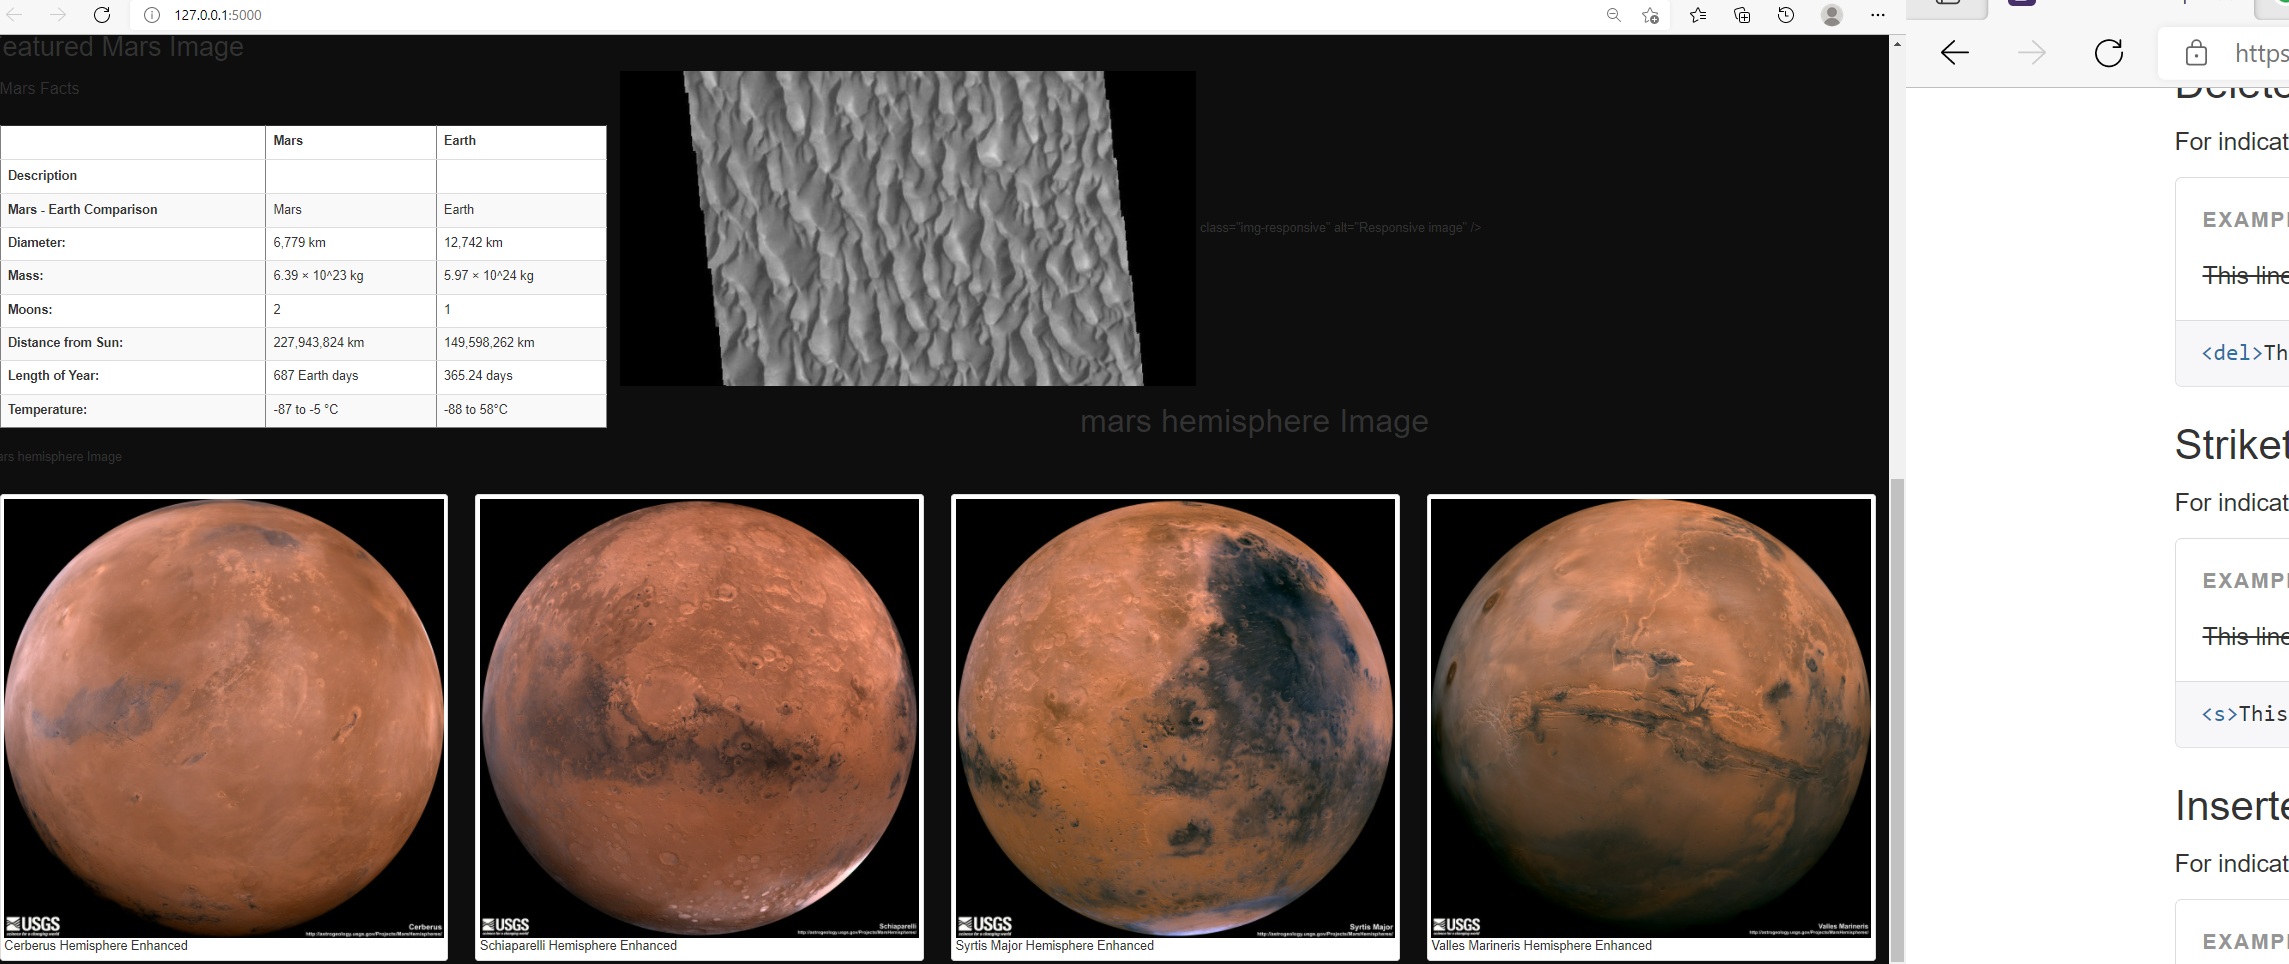
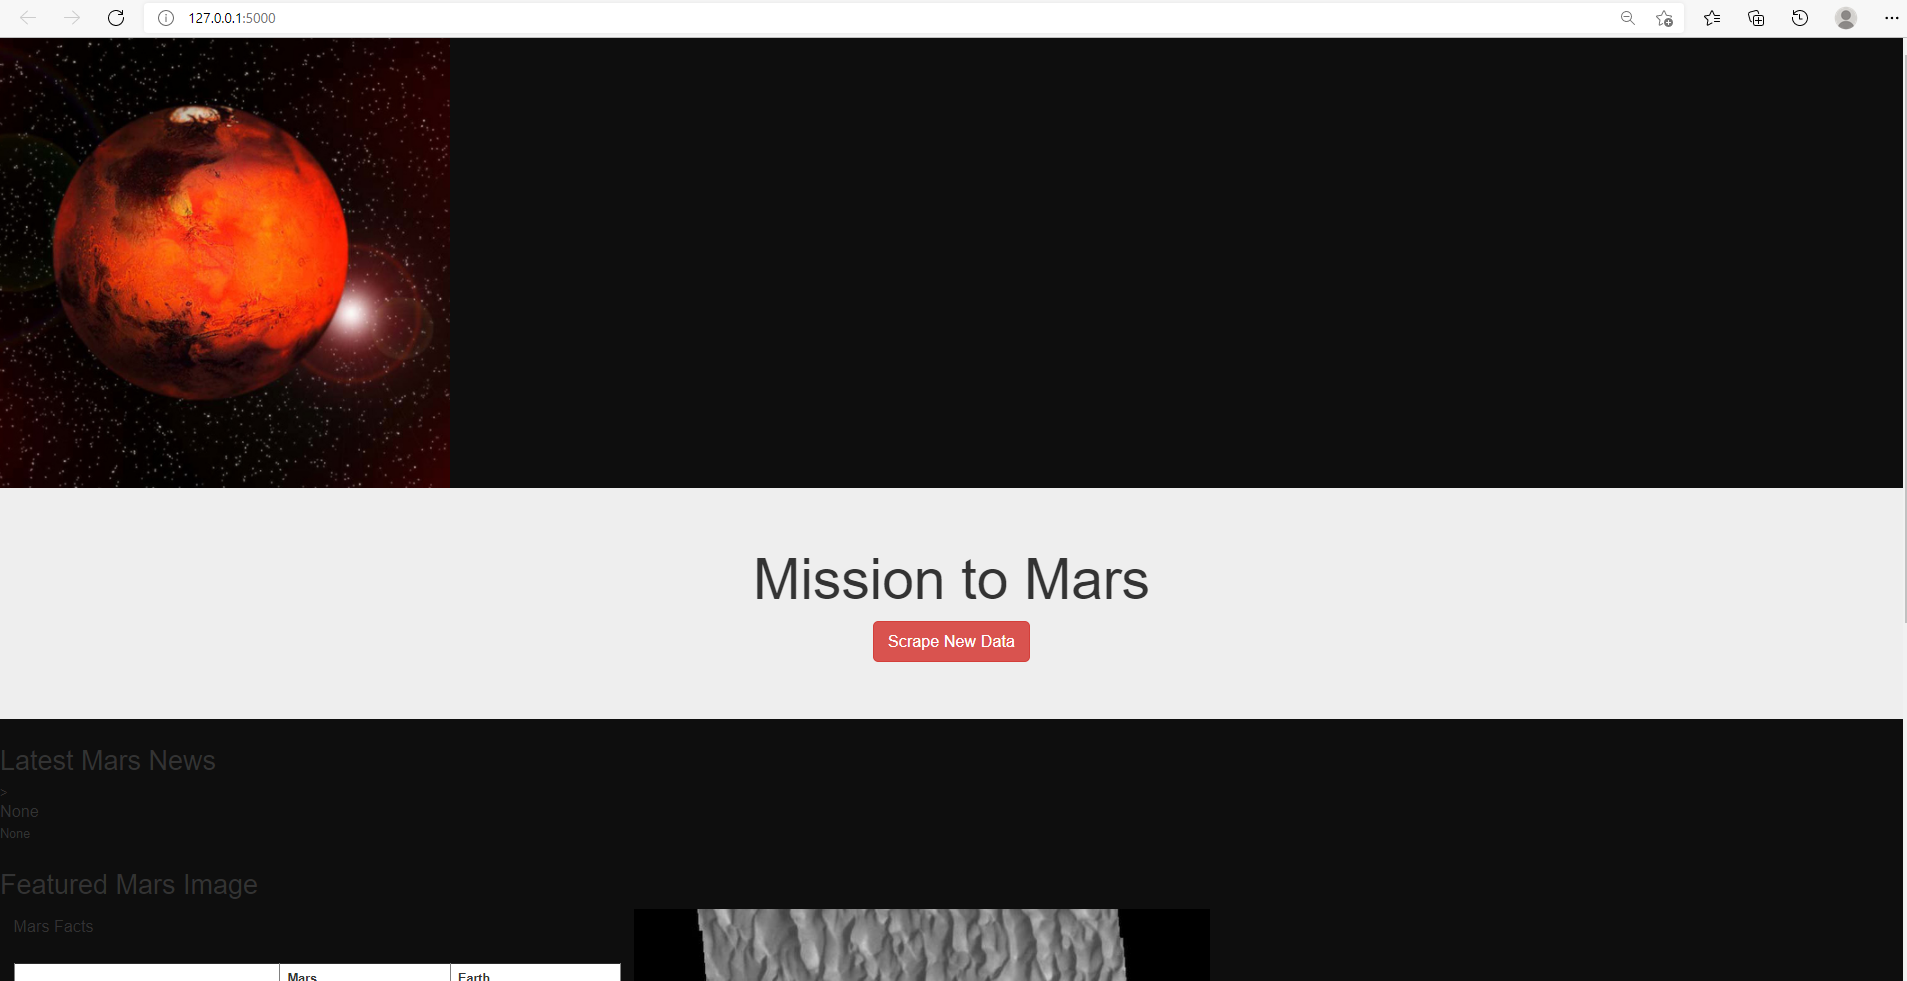
Adding files

diff --git a/index.html b/index.html
@@ -10,8 +10,9 @@
       href="https://maxcdn.bootstrapcdn.com/bootstrap/3.3.7/css/bootstrap.min.css"
     />
   </head>
-  <body>
+  <body style="background-color:darksalmon; color:black">
     <div class="container">
+      <div style="background:linear-gradient(to bottom)>
       <!-- Add Jumbotron to Header -->
       <div class="jumbotron text-center">
         <h1>Mission to Mars</h1>
@@ -57,15 +58,15 @@
       <!-- Section for Mars Hemispheres -->
       <div class="row" id="mars-hemispheres">
         <div class="page-header">
-          <h2 class="text-center">Mars Hemispheres</h2>
+          <h2><center">Mars Hemispheres</h2>
         </div>
 
         {% for hemisphere in mars.hemispheres %}
-        <div class="col-md-6">
+        <div class="col-md-3">
           <div class="thumbnail">
-            <img src="{{hemisphere.img_url | default('static/images/error.png', true)}}" alt="...">
-            <div class="caption">
-              <h3>{{hemisphere.title}}</h3>
+            <img src="{{hemisphere.img_url}}"
+            
+              <h2><b>{{{hemisphere.title}}</b></h2>
             </div>
           </div>
         </div>
